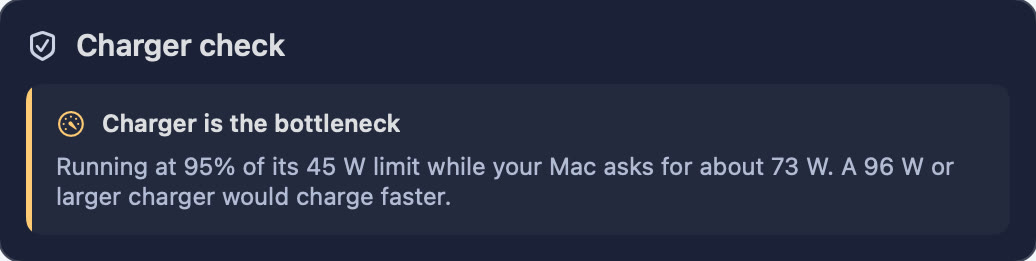
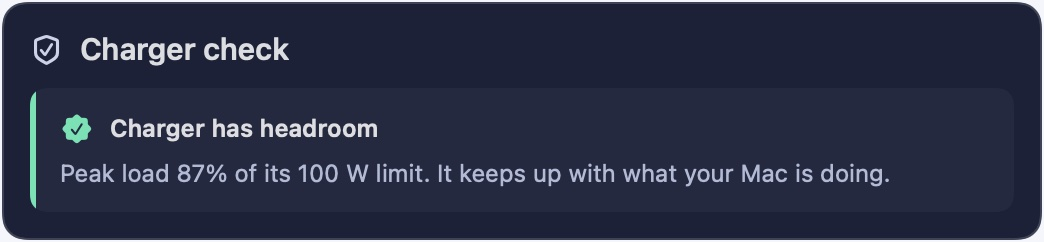
Balance Mac uses against measured battery power; site and docs for the new features
SystemLoad read 82 W while fast charging with the Mac nearly idle; Mac uses is now input minus the
pack's own V times I. Site adds the charger library, battery care, receipts and the cable test.

Changed region(s): [[0.0, 0.0, 1.0, 1.0]]

diff --git a/site/index.html b/site/index.html
@@ -149,6 +149,7 @@ figcaption{margin-top:14px;font-size:14px;color:var(--muted);line-height:1.5}
 .report-grid{margin:28px 0 0;padding:0;list-style:none;display:grid;grid-template-columns:repeat(5,1fr);border:1px solid var(--line);border-radius:12px;background:var(--elevated);overflow:hidden}
 .report-grid li{padding:22px 22px 24px}
 .report-grid li + li{border-left:1px solid var(--line)}
+.report-note{margin-top:28px;color:var(--muted);max-width:76ch}.report-note strong{color:var(--text)}
 .report-grid p{margin-top:6px;font-size:15px;line-height:1.55;color:var(--muted)}
 @media (max-width:1180px){
   .report-grid{grid-template-columns:repeat(2,1fr)}
@@ -230,10 +231,14 @@ figcaption{margin-top:14px;font-size:14px;color:var(--muted);line-height:1.5}
 /* The last tile in each column stretches, so all three columns end on one line */
 .collage-col > .tile:last-child{flex:1}
 .stats{display:flex;flex-direction:column;padding:20px 18px}
-.stats figcaption{padding:0}
+.tile.stats figcaption{padding:0;margin:0}
 .numbers{display:grid;grid-template-columns:repeat(2,minmax(0,1fr));gap:18px 16px;margin:18px 0 0;flex:1;align-content:center}
 .numbers dt{font:600 clamp(22px,2vw,28px)/1.1 ui-monospace,"SF Mono",Menlo,monospace;color:var(--text);font-variant-numeric:tabular-nums;letter-spacing:-.01em}
 .numbers dd{margin:4px 0 0;font-size:13px;color:var(--muted)}
+.stats.wide{display:block;padding:22px 24px}
+.stats.wide .numbers{grid-template-columns:repeat(6,minmax(0,1fr))}
+@media (max-width:1080px){.stats.wide .numbers{grid-template-columns:repeat(3,minmax(0,1fr))}}
+@media (max-width:520px){.stats.wide .numbers{grid-template-columns:repeat(2,minmax(0,1fr))}}
 @media (max-width:1080px){.collage{grid-template-columns:repeat(2,minmax(0,1fr))}
   .collage-col:nth-child(3){grid-column:1/-1;display:grid;grid-template-columns:repeat(2,minmax(0,1fr))}
   .collage-col:nth-child(3) > .tile:last-child{grid-column:1/-1}}
@@ -348,15 +353,47 @@ figcaption{margin-top:14px;font-size:14px;color:var(--muted);line-height:1.5}
     <div class="container">
       <div class="section-head">
         <h2 id="dashboard-title">Everything the battery controller knows, on one screen</h2>
-        <p>The dashboard opens from the menu bar and goes far past the system battery settings. Every card below is the real app, rendered from a live reading on a 16 inch MacBook Pro charging from a 45 W brick.</p>
+        <p>The dashboard opens from the menu bar and goes far past the system battery settings. Every card below is the real app, rendered from a live reading on a 16 inch MacBook Pro charging from a 100 W charger.</p>
       </div>
       <div class="collage">
         <div class="collage-col">
             <figure class="tile">
-              <img src="images/cards/card-charger.jpg" width="1036" height="1701" loading="lazy" alt="The Charger card: a 45 W USB-C charger negotiated at 20 V and 2.25 A, live input, load near its limit, efficiency rated Excellent, a report card, and the five power profiles it offers.">
-              <figcaption><span class="src">USB Power Delivery · AppleSmartBattery</span><strong>Charger and report card</strong><p>The profile it negotiated, live input, load against its limit, efficiency, and a report card graded only from measured samples.</p><ul class="specs"><li>PDO 20 V × 2.25 A</li><li>load %</li><li>sag under load</li><li>R<sub>cable</sub> from dV/dI</li><li>efficiency %</li></ul></figcaption>
+              <img src="images/cards/card-charger.jpg" width="1044" height="1667" loading="lazy" alt="The Charger card: a 100 W USB-C charger negotiated at 20 V and 5 A, live input, load near its limit, efficiency rated Excellent, a report card, and the five power profiles it offers.">
+              <figcaption><span class="src">USB Power Delivery · AppleSmartBattery</span><strong>Charger and report card</strong><p>The profile it negotiated, live input, load against its limit, efficiency, and a report card graded only from measured samples.</p><ul class="specs"><li>PDO 20 V × 5 A</li><li>load %</li><li>sag under load</li><li>R<sub>cable</sub> from dV/dI</li><li>efficiency %</li></ul></figcaption>
             </figure>
-            <figure class="tile stats" aria-label="By the numbers">
+            <figure class="tile">
+              <img src="images/cards/card-check.jpg" width="1044" height="242" loading="lazy" alt="The Charger check card: the charger is the bottleneck, running near its limit.">
+              <figcaption><span class="src">Derived</span><strong>Charger check</strong><p>Compares what the Mac would draw with what the charger can deliver, and names the cable when the profiles say so.</p><ul class="specs"><li>bottleneck</li><li>headroom</li><li>check the cable</li></ul></figcaption>
+            </figure>
+        </div>
+        <div class="collage-col">
+            <figure class="tile">
+              <img src="images/cards/card-battery.jpg" width="1044" height="1462" loading="lazy" alt="The Battery card: power, pack voltage and current, charge, health, capacity in watt hours, cycles, the charge the battery is requesting, its lifetime record, and three cells drawn as compartments of a pack.">
+              <figcaption><span class="src">AppleSmartBattery · LifetimeData</span><strong>Battery, down to the cell</strong><p>Charge in mAh and Wh, health against design, cycles, what the battery is asking the charger for, its lifetime record, and each cell as a compartment of the pack.</p><ul class="specs"><li>3S pack</li><li>about 99 Wh design</li><li>cell imbalance mV</li><li>peak 8.04 A</li><li>23,076 h</li></ul></figcaption>
+            </figure>
+            <figure class="tile">
+              <img src="images/cards/card-care.jpg" width="1044" height="362" loading="lazy" alt="The Battery care card: hours plugged in above 95%, hours at 40 °C or hotter, and how often the battery ran below 10%, from Wattsup's own history.">
+              <figcaption><span class="src">Your own history</span><strong>Battery care</strong><p>Hours spent full and plugged in, hours hot, and deep discharges, with plain advice. Weekly figures wait for a full day of history instead of guessing.</p><ul class="specs"><li>above 95%</li><li>40 °C or hotter</li><li>below 10%</li><li>cycles per week</li></ul></figcaption>
+            </figure>
+        </div>
+        <div class="collage-col">
+            <figure class="tile">
+              <img src="images/cards/card-thermals.jpg" width="1044" height="563" loading="lazy" alt="The Thermals card: left and right fans, CPU, hottest core, GPU and battery temperatures.">
+              <figcaption><span class="src">AppleSMC</span><strong>Thermals</strong><p>Fan speeds and chip temperatures read straight from the System Management Controller. Fans spin on screen when they spin in the Mac.</p><ul class="specs"><li>2 fans</li><li>79 chip sensors</li><li>hottest core</li></ul></figcaption>
+            </figure>
+            <figure class="tile">
+              <img src="images/cards/card-energy.jpg" width="1044" height="510" loading="lazy" alt="The Energy card: watt hours today from the wall, used by the Mac, and the last 30 days.">
+              <figcaption><span class="src">Stored minutes</span><strong>Energy</strong><p>Watt hours from the wall and used by the Mac, integrated from one averaged point per minute, with optional cost.</p><ul class="specs"><li>Wh per day</li><li>30 days</li><li>cost per kWh</li></ul></figcaption>
+            </figure>
+            <figure class="tile">
+              <img src="images/cards/card-apps.jpg" width="1244" height="466" loading="lazy" alt="The Energy use by app card: apps ranked by energy impact, each with its icon and a bar.">
+              <figcaption><span class="src">top -stats power</span><strong>Energy use by app</strong><p>The apps working the Mac hardest, helpers grouped under their app. It is Activity Monitor's energy impact score, labeled honestly as not watts.</p><ul class="specs"><li>energy impact</li><li>grouped by bundle</li></ul></figcaption>
+            </figure>
+        </div>
+      </div>
+      <div class="bento">
+        <div class="bento-wide">
+            <figure class="tile stats wide" aria-label="By the numbers">
               <figcaption><span class="src">By the numbers</span><strong>Read off one MacBook Pro</strong></figcaption>
               <dl class="numbers">
                 <div><dt>0.13 Ω</dt><dd>cable resistance, measured</dd></div>
@@ -364,44 +401,16 @@ figcaption{margin-top:14px;font-size:14px;color:var(--muted);line-height:1.5}
                 <div><dt>8.04 A</dt><dd>lifetime peak draw</dd></div>
                 <div><dt>79</dt><dd>chip temperature sensors</dd></div>
                 <div><dt>99 Wh</dt><dd>battery design capacity</dd></div>
-                <div><dt>16</dt><dd>menu bar readings</dd></div>
+                <div><dt>17</dt><dd>menu bar readings</dd></div>
               </dl>
             </figure>
-        </div>
-        <div class="collage-col">
             <figure class="tile">
-              <img src="images/cards/card-battery.jpg" width="1036" height="1302" loading="lazy" alt="The Battery card: power, pack voltage and current, charge, health, capacity in watt hours, cycles, the charge the battery is requesting, its lifetime record, and three cells drawn as compartments of a pack.">
-              <figcaption><span class="src">AppleSmartBattery · LifetimeData</span><strong>Battery, down to the cell</strong><p>Charge in mAh and Wh, health against design, cycles, what the battery is asking the charger for, its lifetime record, and each cell as a compartment of the pack.</p><ul class="specs"><li>3S pack</li><li>about 99 Wh design</li><li>cell imbalance mV</li><li>peak 8.04 A</li><li>23,076 h</li></ul></figcaption>
-            </figure>
-            <figure class="tile">
-              <img src="images/cards/card-check.jpg" width="1036" height="261" loading="lazy" alt="The Charger check card: the charger is the bottleneck, running near its limit.">
-              <figcaption><span class="src">Derived</span><strong>Charger check</strong><p>Compares what the Mac would draw with what the charger can deliver, and names the cable when the profiles say so.</p><ul class="specs"><li>bottleneck</li><li>headroom</li><li>check the cable</li></ul></figcaption>
-            </figure>
-        </div>
-        <div class="collage-col">
-            <figure class="tile">
-              <img src="images/cards/card-thermals.jpg" width="1036" height="555" loading="lazy" alt="The Thermals card: left and right fans, CPU, hottest core, GPU and battery temperatures.">
-              <figcaption><span class="src">AppleSMC</span><strong>Thermals</strong><p>Fan speeds and chip temperatures read straight from the System Management Controller. Fans spin on screen when they spin in the Mac.</p><ul class="specs"><li>2 fans</li><li>79 chip sensors</li><li>hottest core</li></ul></figcaption>
-            </figure>
-            <figure class="tile">
-              <img src="images/cards/card-energy.jpg" width="1036" height="262" loading="lazy" alt="The Energy card: watt hours today from the wall, used by the Mac, and the last 30 days.">
-              <figcaption><span class="src">Stored minutes</span><strong>Energy</strong><p>Watt hours from the wall and used by the Mac, integrated from one averaged point per minute, with optional cost.</p><ul class="specs"><li>Wh per day</li><li>30 days</li><li>cost per kWh</li></ul></figcaption>
-            </figure>
-            <figure class="tile">
-              <img src="images/cards/card-apps.jpg" width="1236" height="458" loading="lazy" alt="The Energy use by app card: apps ranked by energy impact, each with its icon and a bar.">
-              <figcaption><span class="src">top -stats power</span><strong>Energy use by app</strong><p>The apps working the Mac hardest, helpers grouped under their app. It is Activity Monitor's energy impact score, labeled honestly as not watts.</p><ul class="specs"><li>energy impact</li><li>grouped by bundle</li></ul></figcaption>
-            </figure>
-        </div>
-      </div>
-      <div class="bento">
-        <div class="bento-wide">
-            <figure class="tile">
-              <img src="images/cards/card-history.jpg" width="2076" height="550" loading="lazy" alt="The History card: 24 hours of charger, Mac and battery power, with a gap where Wattsup was not running.">
+              <img src="images/cards/card-history.jpg" width="2084" height="558" loading="lazy" alt="The History card: 24 hours of charger, Mac and battery power, with a gap where Wattsup was not running.">
               <figcaption><span class="src">Archive · 1 point per minute</span><strong>History that survives restarts</strong><p>Charger, Mac and battery power over 24 hours or 7 days. Time Wattsup was not running stays empty instead of being smoothed over.</p><ul class="specs"><li>5 min to 7 d</li><li>30 day archive</li><li>gaps shown, not invented</li></ul></figcaption>
             </figure>
             <figure class="tile">
-              <img src="images/cards/card-chargers.jpg" width="2076" height="333" loading="lazy" alt="The Chargers you have used card: four chargers with their limits, peak load, quality, efficiency and verdict.">
-              <figcaption><span class="src">Per charger</span><strong>Every charger you have used</strong><p>Peak load, report card grade, measured cable resistance and average efficiency for each brick, so you know which one to pack.</p><ul class="specs"><li>peak load</li><li>quality grade</li><li>R<sub>cable</sub> in Ω</li><li>avg efficiency</li></ul></figcaption>
+              <img src="images/cards/card-chargers.jpg" width="2084" height="641" loading="lazy" alt="The Charger library card: a suggestion to pack the 70 W charger, then four chargers ranked by score with limit, peak load, quality, efficiency, time used and the exact time each was last seen.">
+              <figcaption><span class="src">Charger library · stored on your Mac</span><strong>Every charger you own, ranked</strong><p>Each charger is recognized when you plug it back in, by its serial number when it reports one. Name them, merge one brick seen on two cables, and see exactly when each was last used. From your own usage, Wattsup names the smallest charger worth packing.</p><ul class="specs"><li>score: power 40%, efficiency 30%, quality 30%</li><li>your names</li><li>which charger to pack</li><li>last seen to the minute</li></ul></figcaption>
             </figure>
         </div>
       </div>
@@ -466,6 +475,7 @@ figcaption{margin-top:14px;font-size:14px;color:var(--muted);line-height:1.5}
           <li><h3>Connection</h3><p>Drop outs: brief disconnects while plugged in, often a worn cable or loose port.</p></li>
           <li><h3>Heat</h3><p>Whether macOS slowed charging because of heat.</p></li>
         </ul>
+        <p class="report-note"><strong>Test it on the spot.</strong> Cable resistance needs the current to change. Click Test now on the Charger card and Wattsup loads the CPU for 10 of 20 seconds, samples twice a second, and grades the cable and charger right away. It stops if you unplug, switch chargers or the chip gets hot.</p>
       </div>
     </div>
   </section>
@@ -475,7 +485,7 @@ figcaption{margin-top:14px;font-size:14px;color:var(--muted);line-height:1.5}
       <div class="prose">
         <h2 id="menubar-title">A readout that fits how you work</h2>
         <p>The menu bar shows live numbers in an outlined capsule, colored by meaning: charger input blue, Mac use purple, charging green, draining pink. Hover any number for a tooltip that names it.</p>
-        <p>Choose from 16 readings, including power in or out, voltage, current, Mac uses, battery power, from the wall, charger loss, charger load, battery percent, time, temperature and health. Reorder them, stack them on two rows, or turn color and outline off.</p>
+        <p>Choose from 17 readings, including power in or out, voltage, current, Mac uses, battery power, from the wall, charger loss, charger load, battery percent, time, temperature, health and a live graph of the last minute of power. Reorder them, stack them on two rows, or turn color and outline off.</p>
         <figure class="capsules">
           <div class="capsule dark"><img src="images/menubar-dark.png" width="428" height="60" loading="lazy" alt="Menu bar readout in dark mode: 38.1 W from the wall, 37% charger load, 29.9 W Mac uses, 100% battery."></div>
           <div class="capsule light"><img src="images/menubar-light.png" width="428" height="60" loading="lazy" alt="The same readout in light mode."></div>
@@ -532,8 +542,8 @@ figcaption{margin-top:14px;font-size:14px;color:var(--muted);line-height:1.5}
         </li>
         <li>
           <svg width="20" height="20" viewBox="0 0 20 20" fill="none" stroke="currentColor" stroke-width="1.5" stroke-linecap="round" stroke-linejoin="round" aria-hidden="true"><path d="M4 4h12M4 10h12M4 16h8"/></svg>
-          <h3>Chargers you've used</h3>
-          <p>Every charger you plug in is remembered with its limit, peak load, quality grade and average efficiency.</p>
+          <h3>Charger library</h3>
+          <p>Every charger you plug in is recognized, ranked and nameable, with its limit, peak load, quality, efficiency and when you last used it.</p>
         </li>
         <li>
           <svg width="20" height="20" viewBox="0 0 20 20" fill="none" stroke="currentColor" stroke-width="1.5" stroke-linecap="round" stroke-linejoin="round" aria-hidden="true"><path d="M10 3v3M10 14v3M3 10h3M14 10h3"/><circle cx="10" cy="10" r="4"/></svg>
@@ -544,6 +554,21 @@ figcaption{margin-top:14px;font-size:14px;color:var(--muted);line-height:1.5}
           <svg width="20" height="20" viewBox="0 0 20 20" fill="none" stroke="currentColor" stroke-width="1.5" stroke-linecap="round" stroke-linejoin="round" aria-hidden="true"><rect x="2.5" y="3.5" width="15" height="4" rx="1"/><path d="M5 11h10M5 14.5h6"/></svg>
           <h3>Replaces the battery icon</h3>
           <p>Settings links straight to the macOS Menu Bar settings, so you can hide the built in battery icon.</p>
+        </li>
+        <li>
+          <svg width="20" height="20" viewBox="0 0 20 20" fill="none" stroke="currentColor" stroke-width="1.5" stroke-linecap="round" stroke-linejoin="round" aria-hidden="true"><path d="M5 2.5h10v15l-2-1.5-1.5 1.5-1.5-1.5-1.5 1.5L7 16l-2 1.5v-15Z"/><path d="M8 7h4M8 10h4"/></svg>
+          <h3>Charging receipts</h3>
+          <p>One receipt per charge: the charger, start and end percent, watt hours added, average and peak watts, time to 80%, and how long the charger held it back.</p>
+        </li>
+        <li>
+          <svg width="20" height="20" viewBox="0 0 20 20" fill="none" stroke="currentColor" stroke-width="1.5" stroke-linecap="round" stroke-linejoin="round" aria-hidden="true"><path d="M10 16.5s-6-3.6-6-8A3.3 3.3 0 0 1 10 6a3.3 3.3 0 0 1 6 2.5c0 4.4-6 8-6 8Z"/></svg>
+          <h3>Battery care</h3>
+          <p>How long the battery sat full on the charger, ran hot or dropped below 10%, from your own history, with advice in plain words.</p>
+        </li>
+        <li>
+          <svg width="20" height="20" viewBox="0 0 20 20" fill="none" stroke="currentColor" stroke-width="1.5" stroke-linecap="round" stroke-linejoin="round" aria-hidden="true"><path d="M2.5 10h3l2-4.5 3 9 2-4.5h5"/></svg>
+          <h3>Charger and cable test</h3>
+          <p>A 20 second test you start yourself. It swings the current to measure cable resistance and voltage sag on the spot.</p>
         </li>
       </ul>
     </div>
@@ -637,6 +662,18 @@ figcaption{margin-top:14px;font-size:14px;color:var(--muted);line-height:1.5}
         <details>
           <summary>Are the accessory numbers live?</summary>
           <p>No. macOS reports the power it allocated to each USB device, so these are ceilings. Whatever a device actually draws is already part of Mac uses.</p>
+        </details>
+        <details>
+          <summary>How does Wattsup recognize a charger I used before?</summary>
+          <p>Apple chargers report a serial number, so Wattsup knows that exact brick. Other chargers are matched by name, maker, rating and the power profiles they offer. A charger on a different cable can negotiate different profiles and show up separately; Same charger as, in the library, merges them.</p>
+        </details>
+        <details>
+          <summary>How does it pick which charger to pack?</summary>
+          <p>From your own minutes on a charger: it takes what your Mac typically draws and what it draws when busy, then suggests the smallest charger in your library that covers the busy figure, plus the fastest one. It waits for at least an hour of history first.</p>
+        </details>
+        <details>
+          <summary>Is the charger test safe?</summary>
+          <p>It loads the CPU for 10 seconds, about what a video export does. It stops if you unplug, switch chargers or the chip reaches 95 °C. If the charger is already at its limit the current cannot swing, so the cable stays ungraded and Wattsup says why.</p>
         </details>
       </div>
     </div>

diff --git a/Sources/wattsup/MenuBarRender.swift b/Sources/wattsup/MenuBarRender.swift
@@ -181,8 +181,16 @@ enum CardsRender {
                                     to: dir.appendingPathComponent("card-energy.png")) && ok
         ok = MarketingCapture.write(EnergyByAppCard(impact: m.impact), width: 620,
                                     to: dir.appendingPathComponent("card-apps.png")) && ok
-        ok = MarketingCapture.write(ChargerHistoryCard(chargers: m.chargers.sorted, current: s.adapter?.fingerprint, forget: { _ in }, showsForget: false),
+        ok = MarketingCapture.write(ChargerHistoryCard(chargers: m.chargers.sorted,
+                                                       advice: PackAdvice(samples: m.archive, bricks: Brick.group(m.chargers.records)),
+                                                       current: s.adapter?.fingerprint, forget: { _ in }, showsForget: false),
                                     width: 1040, to: dir.appendingPathComponent("card-chargers.png")) && ok
+        ok = MarketingCapture.write(BatteryCareCard(care: BatteryCare(samples: m.archive)), width: 520,
+                                    to: dir.appendingPathComponent("card-care.png")) && ok
+        if !m.sessions.isEmpty {
+            ok = MarketingCapture.write(ReceiptsCard(sessions: m.sessions, names: { m.chargers.name(for: $0) }), width: 520,
+                                        to: dir.appendingPathComponent("card-receipts.png")) && ok
+        }
         ok = MarketingCapture.write(Card(title: "History, last 24 hours", symbol: "chart.xyaxis.line") {
             SeriesChart(series: Series.power(day), unit: "W", height: 220, showsZero: true, strideMinutes: 180)
         }, width: 1040, to: dir.appendingPathComponent("card-history.png")) && ok

diff --git a/Tests/WattsupCoreTests/PowerSnapshotTests.swift b/Tests/WattsupCoreTests/PowerSnapshotTests.swift
@@ -107,6 +107,18 @@ final class PowerSnapshotTests: XCTestCase {
         XCTAssertEqual(s.systemWatts, 43.02 - 12.789 * 2.124, accuracy: 0.001)
     }
 
+    func testFastChargingBalancesWhenSystemLoadDisagrees() {
+        // Seen on a 16 inch MacBook Pro at 59%: SystemLoad 82.5 W while the pack took 70.7 W of 87 W
+        var d = Fixture.charging()
+        d["Voltage"] = 12246
+        d["InstantAmperage"] = NSNumber(value: Int64(5774))
+        d["PowerTelemetryData"] = ["SystemPowerIn": 86957, "SystemLoad": 82533] as [String: Any]
+        let s = Fixture.snapshot(d)
+        XCTAssertEqual(s.batteryWatts, 12.246 * 5.774, accuracy: 0.001)
+        XCTAssertEqual(s.systemWatts, 86.957 - 12.246 * 5.774, accuracy: 0.001)
+        XCTAssertEqual(s.systemWatts + s.batteryWatts, 86.957, accuracy: 0.001, "the flow balances")
+    }
+
     func testMissingChargeReadingIsNil() {
         XCTAssertNil(PowerSnapshot(registry: ["Voltage": 12000]))
     }

diff --git a/Sources/WattsupCore/PowerSnapshot.swift b/Sources/WattsupCore/PowerSnapshot.swift
@@ -133,12 +133,12 @@ public struct PowerSnapshot: Equatable, Sendable {
         return batteryVolts * batteryAmps
     }
 
-    /// Power the Mac itself uses. On battery the pack is the only source, so its own reading
-    /// keeps both legs of the flow equal; the controller's load figure is a smoothed average.
+    /// Power the Mac itself uses: what comes in minus what the pack measurably takes, so the flow
+    /// always balances. SystemLoad can disagree with the pack during fast charging, so it is a fallback.
     public var systemWatts: Double {
         if !isExternalPower { return max(0.0, -batteryWatts) + 0 }
-        if let systemLoadWatts, systemLoadWatts > 0 { return systemLoadWatts }
-        return max(0, (inputWatts ?? 0) - batteryWatts)
+        if let inputWatts, inputWatts > 0 { return max(0, inputWatts - batteryWatts) }
+        return max(0, systemLoadWatts ?? 0)
     }
 
     public var wallWatts: Double? {

diff --git a/docs/USER-GUIDE.md b/docs/USER-GUIDE.md
@@ -10,7 +10,7 @@ readings. Hover any number for a tooltip naming it. Click it for the popover.
 Out of the box it shows **From the wall | Charger load | Mac uses | Battery percent**. On battery
 the two charger readings drop out, leaving Mac use and percent.
 
-Settings (gear menu, then Settings) lists all 16 readings. Tick the ones to show; use the arrows to
+Settings (gear menu, then Settings) lists all 17 readings. Tick the ones to show; use the arrows to
 reorder any of them. Choose one line or two stacked rows, colors on or off, the outline, and the
 icon (power bolt and plug, battery state, or none).
 
@@ -18,7 +18,7 @@ icon (power bolt and plug, battery state, or none).
 | --- | --- | --- |
 | Power in or out | Watts the charger delivers into the Mac | Watts the Mac draws from the battery |
 | Voltage, Current | Charger input bus | Battery pack |
-| Mac uses | What the Mac itself consumes, including powered accessories | Same |
+| Mac uses | Charger input minus what the battery takes, so the flow always balances | What the battery supplies |
 | Battery power | Plus while charging | Minus while draining |
 | From the wall | Charger input plus its conversion loss | Hidden |
 | Charger loss | Watts the charger turns into heat | Hidden |
@@ -28,6 +28,7 @@ icon (power bolt and plug, battery state, or none).
 | Powering accessories | Power macOS allocated to USB devices | |
 | Chip temperature | Average of the CPU sensors | |
 | Fan speed | The faster fan; hidden on fanless Macs | |
+| Power graph | The last 60 seconds of power in or out, drawn in the capsule | |
 
 Colors: charger input blue, Mac use purple, charging green, draining pink, warnings amber.
 
@@ -85,6 +86,14 @@ the overall grade is the weakest check.
 
 The first 20 seconds after plugging in are a negotiation phase and are never judged.
 
+### Charger and cable test
+
+Cable resistance needs the current to change, which everyday use may not do. On the dashboard's
+Charger card, click **Test now**: Wattsup measures at rest for 5 seconds, loads every CPU core for
+10, lets it settle for 5, samples twice a second, and grades the result on the spot. It stops if
+you unplug, switch chargers, cancel, or the hottest core reaches 95 °C. A charger already at its
+limit cannot swing further, so the cable stays ungraded and the result says so.
+
 ## History
 
 The last hour is kept at full detail in memory. One averaged point per minute is saved to disk
@@ -101,6 +110,25 @@ so it gets its own entry, which also ranks your cables. Use the ⋯ menu, Same c
 those entries into one brick ranked on its best cable; Separate undoes it. Apple chargers report a
 serial number, so identical Apple bricks stay apart; third party chargers do not, so identical
 units of one model share an entry. Last seen shows the exact local time.
+
+**Which charger to pack.** Above the list, Wattsup takes what your Mac typically draws on a
+charger (the median minute) and when busy (the 95th percentile), then names the smallest charger
+in your library whose limit covers the busy figure, plus the fastest one. It needs an hour of
+history on a charger first.
+
+## Charging receipts
+
+Each time you charge for 2 minutes or more, Wattsup writes a receipt: the charger, start and end
+percent, watt hours added and drawn from the wall, average and peak watts, minutes to 80%, and the
+share of the time the charger was the bottleneck. Gaps of over a minute while Wattsup was not
+running are not counted. The dashboard lists recent receipts; Settings can also send one as a
+notification when you unplug (off by default).
+
+## Battery care
+
+From Wattsup's own 30 day history: hours plugged in above 95%, hours at 40 °C or hotter, how often
+the battery ran below 10%, and cycles per week, with plain advice. Weekly figures appear only once
+there is a full day of history, so a few hours are never stretched into a weekly habit.
 
 ## Powering accessories
 

diff --git a/README.md b/README.md
@@ -12,14 +12,16 @@ Site: https://goriparthi.github.io/wattsup/
 
 ## What it shows
 
-- **Menu bar**: pick any of 16 readings and order them, on one line or two rows, colored by meaning
-  in an outlined capsule. Hover a number to see what it is.
+- **Menu bar**: pick any of 17 readings, including a live 60 second power graph, and order them, on
+  one line or two rows, colored by meaning in an outlined capsule. Hover a number to see what it is.
 - **Popover**: a battery tank that fills and drains, a hybrid car style power flow from charger to
   Mac to battery (and to any powered accessories), the charger verdict, and grouped details.
 - **Dashboard**: history charts, every USB-C Power Delivery profile, charger efficiency, battery
-  health, cycles and per cell voltages, energy mode, and every charger you have used.
+  health, cycles and per cell voltages, energy mode, charging receipts,
+  battery care, and a ranked charger library that says which charger to pack.
 - **Charger check**: tells you when the charger, or its cable, is the bottleneck and what size
-  would fix it, and grades its efficiency.
+  would fix it, and grades its efficiency. A 20 second test you start yourself measures the
+  cable on the spot.
 
 Readings come from the `AppleSmartBattery` IOKit entry, read locally without admin rights. They
 never leave the Mac: no account, no analytics. The only network request is a daily check of this
